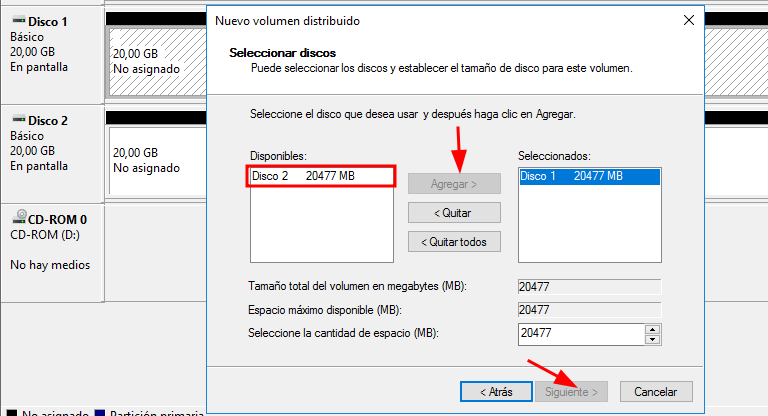
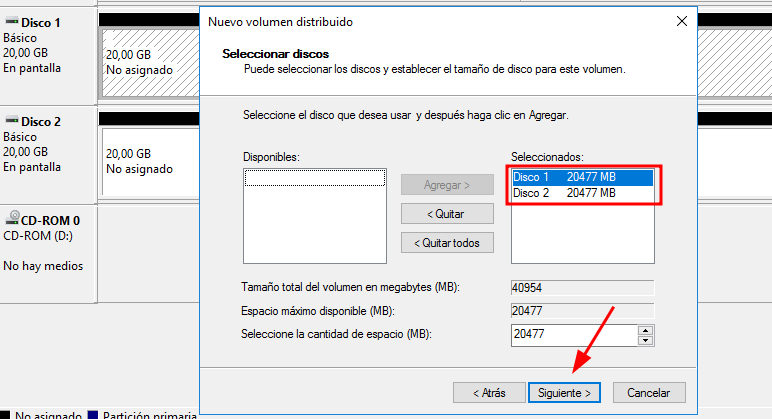
delete img

diff --git a/raid_disk/README.md b/raid_disk/README.md
@@ -134,7 +134,7 @@
 
 10 - El volumen se ha creado correctamente 
 
-![RAID 0 creado](./img/raid0/raid8.png)
+![RAID 0 creado](./img/raid0/raid9.png)
 <br>
 <br>
 
